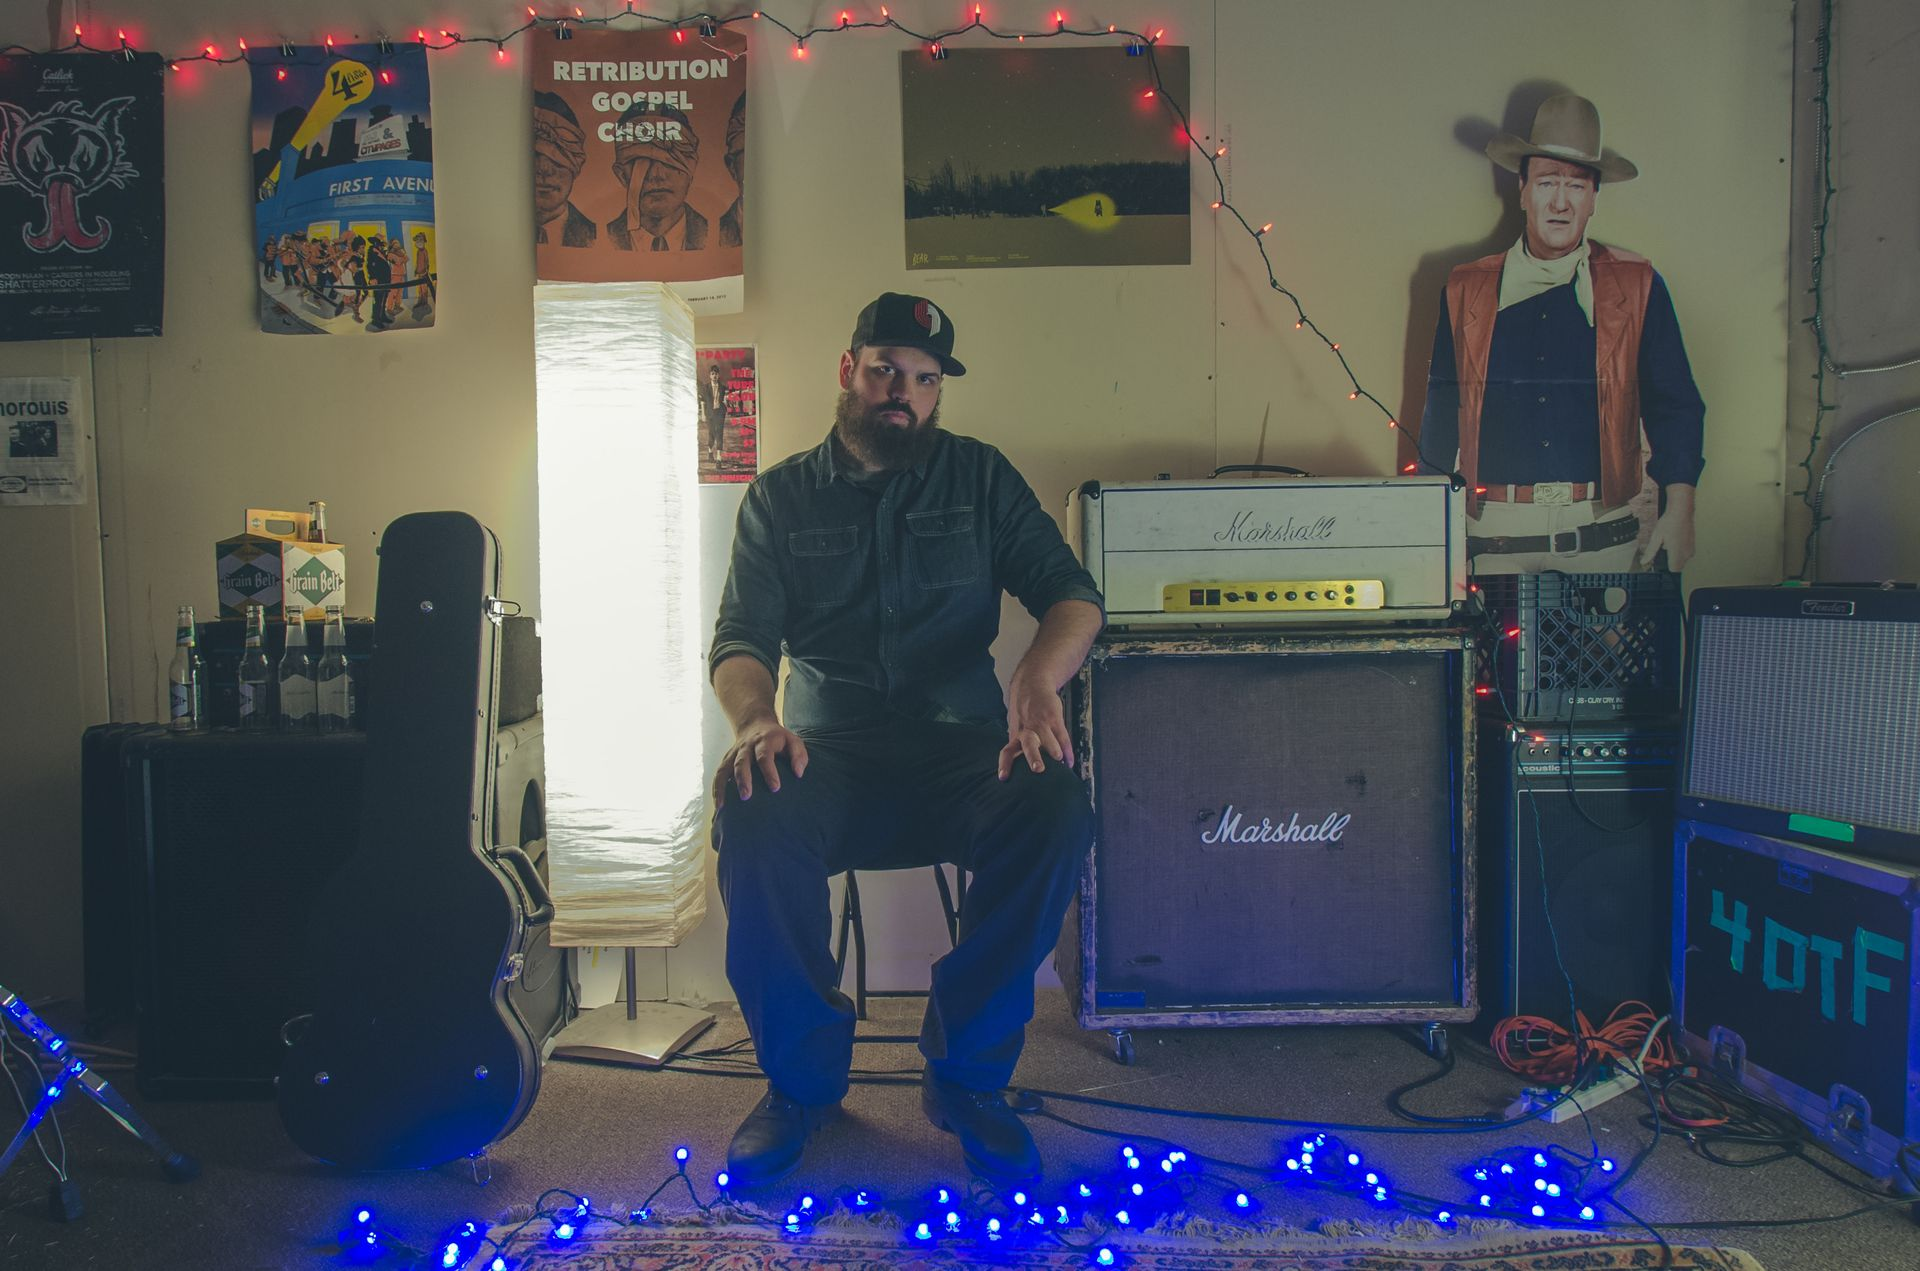
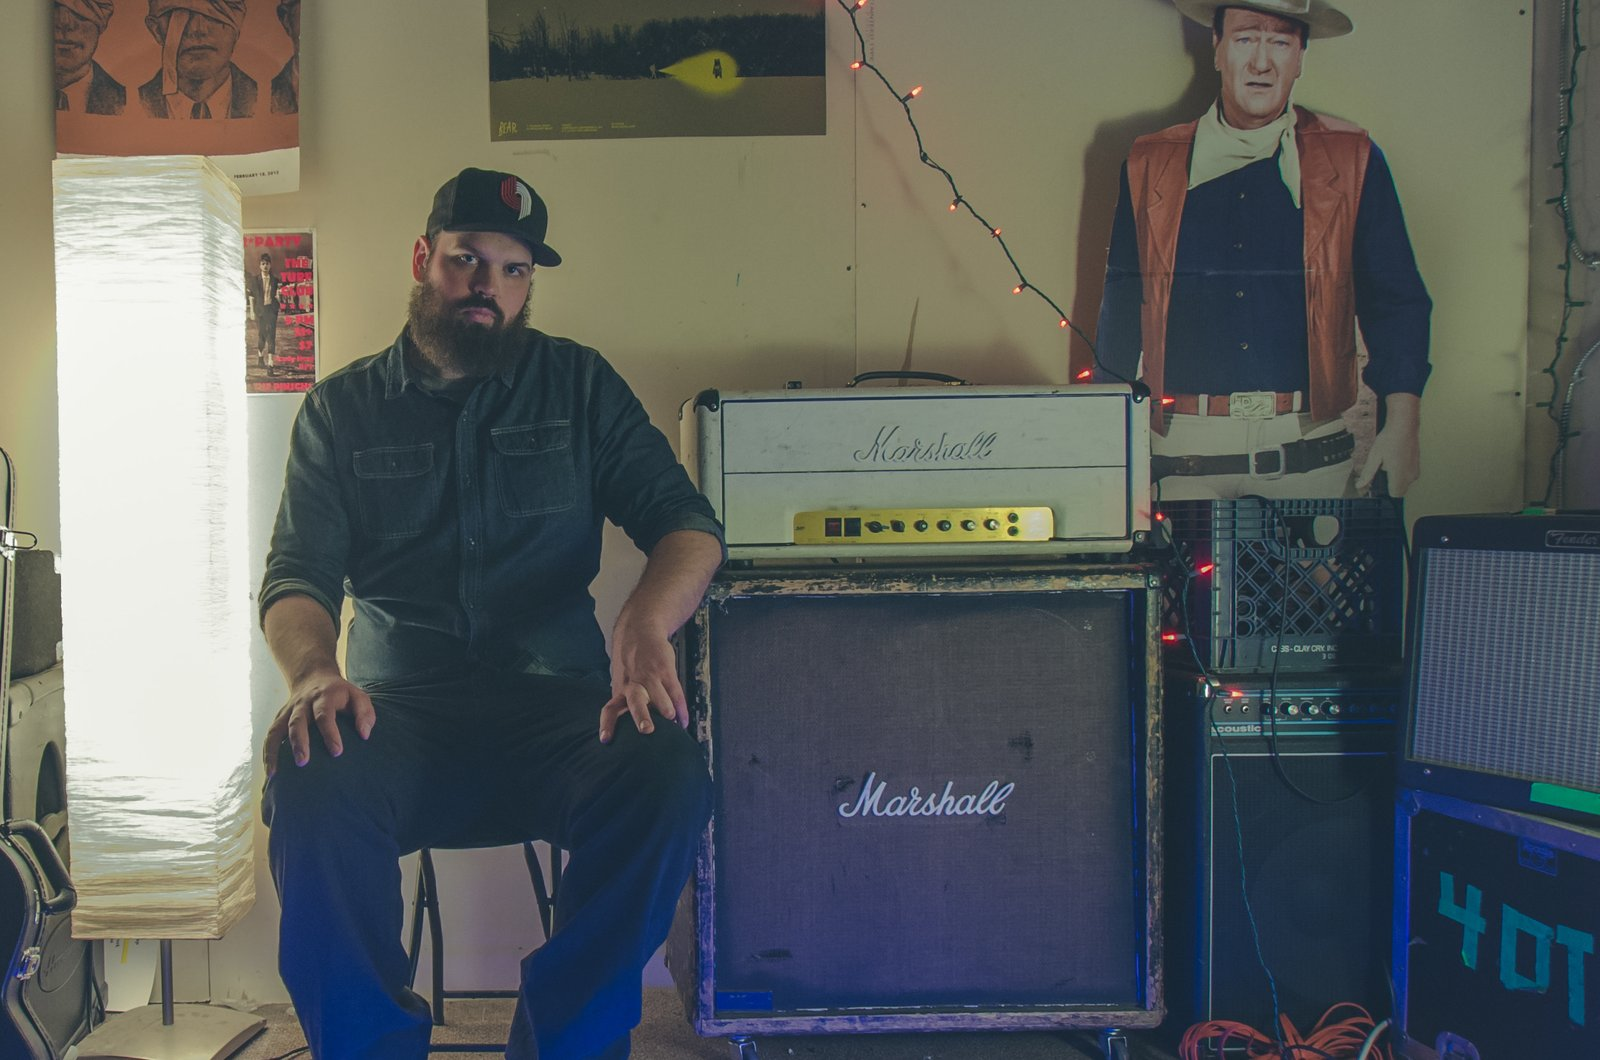
Add files via upload

diff --git a/index.html b/index.html
@@ -14,11 +14,16 @@
 <meta property="og:type" content="website">
 <meta property="og:url" content="https://skophammer.com/">
 <meta property="og:site_name" content="Skōphammer Audio Engineering">
+<meta property="og:image" content="https://skophammer.com/images/hero-bg.jpg">
+<meta property="og:image:width" content="1600">
+<meta property="og:image:height" content="1060">
+<meta property="og:image:alt" content="Skōphammer Audio Engineering">
 
 <!-- Twitter Card -->
-<meta name="twitter:card" content="summary">
+<meta name="twitter:card" content="summary_large_image">
 <meta name="twitter:title" content="Skōphammer Audio Engineering">
 <meta name="twitter:description" content="Independent artist mixing and mastering — analog soul, remote workflow.">
+<meta name="twitter:image" content="https://skophammer.com/images/hero-bg.jpg">
 
 <!-- Structured data: tells Google this is a service business, helps with rich results -->
 <script type="application/ld+json">
@@ -30,6 +35,11 @@
   "url": "https://skophammer.com/",
   "areaServed": "Online / Remote",
   "priceRange": "$",
+  "image": "https://skophammer.com/images/hero-bg.jpg",
+  "sameAs": [
+    "https://www.instagram.com/jskophammer/",
+    "https://soundcloud.com/skophammerengineering"
+  ],
   "makesOffer": [
     { "@type": "Offer", "itemOffered": { "@type": "Service", "name": "Audio Mixing" } },
     { "@type": "Offer", "itemOffered": { "@type": "Service", "name": "Audio Mastering" } }
@@ -160,7 +170,7 @@
     padding:120px 24px 100px;
     background:
       linear-gradient(180deg, rgba(20,14,8,0.55), rgba(20,14,8,0.78)),
-      url('images/hero-bg.jpg') center 22% / cover no-repeat;
+      url('images/hero-bg.jpg') 30% 22% / cover no-repeat;
     text-align:center;
     color:#fdfaf5;
   }
@@ -295,6 +305,9 @@
   .field textarea{resize:vertical; min-height:110px;}
   form .btn{width:100%; justify-content:center; border:none;}
   .form-note{font-size:12px; color:var(--text-faint); margin-top:12px; text-align:center;}
+  .hp-field{
+    position:absolute; left:-9999px; width:1px; height:1px; overflow:hidden;
+  }
 
   /* ---------- FOOTER ---------- */
   footer{border-top:1px solid var(--border); padding:40px 24px; text-align:center; background:var(--bg-alt);}
@@ -512,6 +525,13 @@
           Until you do that, the "Email Me Directly" button still works.
         -->
         <form action="https://formspree.io/f/xnpakvgl" method="POST" class="reveal">
+          <!-- Honeypot spam trap: invisible to real visitors, but bots that
+               auto-fill every form field tend to fill this in. Formspree
+               silently discards any submission where it's non-empty. -->
+          <div class="hp-field" aria-hidden="true">
+            <label for="_gotcha">Leave this field empty</label>
+            <input type="text" id="_gotcha" name="_gotcha" tabindex="-1" autocomplete="off">
+          </div>
           <div class="field">
             <label for="name">Name</label>
             <input type="text" id="name" name="name" required>

diff --git a/README.md b/README.md
@@ -33,15 +33,17 @@ dependencies, ready to publish on GitHub Pages as-is.
 All of these are marked in the code with comments or are easy to find by
 searching the text below in `index.html`.
 
-**Contact form (currently non-functional until you set this up)**
-The form posts to [Formspree](https://formspree.io) so it works without a
-backend server. To activate it:
-1. Create a free Formspree account and a new form.
-2. Copy the endpoint it gives you (looks like `https://formspree.io/f/xxxxxxxx`).
-3. In `index.html`, find `YOUR_FORM_ID` in the `<form action="...">` tag and
-   replace it with your real endpoint.
-Until you do this, the "Email Me Directly" mailto link under the form still
-works fine.
+**Contact form**
+The form posts to your [Formspree](https://formspree.io) endpoint, so it
+works without a backend server. If you ever need to point it at a different
+Formspree form, replace the endpoint in the `<form action="...">` tag in
+`index.html`.
+
+The form also has a honeypot spam trap: a `_gotcha` field, visually hidden
+off-screen (search `hp-field` in `index.html`), that real visitors never see
+or fill in. Formspree automatically discards any submission where it comes
+back non-empty — no setup needed on your end, it just works. It won't stop
+every bot, but it filters out most basic spam submissions for free.
 
 **Audio samples**
 The Portfolio section embeds your "Sound Refinery Productions Spotlight"
@@ -115,9 +117,14 @@ that domain ever changes, update `CNAME` and the DNS records per
 ## 5. SEO setup
 
 The site includes the technical basics: meta description, canonical URL,
-Open Graph + Twitter card tags, `ProfessionalService` structured data
-(JSON-LD in `index.html`), plus `robots.txt` and `sitemap.xml` at the repo
-root — all pointed at `https://skophammer.com/`.
+Open Graph + Twitter card tags (with a share preview image), `ProfessionalService`
+structured data (JSON-LD in `index.html`, including `sameAs` links to Instagram
+and SoundCloud), plus `robots.txt` and `sitemap.xml` at the repo root — all
+pointed at `https://skophammer.com/`.
+
+If you ever swap the hero photo, update the `og:image` / `twitter:image`
+URLs (and the `image` field in the JSON-LD block) to match — search for
+`hero-bg.jpg` in `index.html` to find every spot it's referenced.
 
 **After launch:**
 - Submit the site in [Google Search Console](https://search.google.com/search-console)
